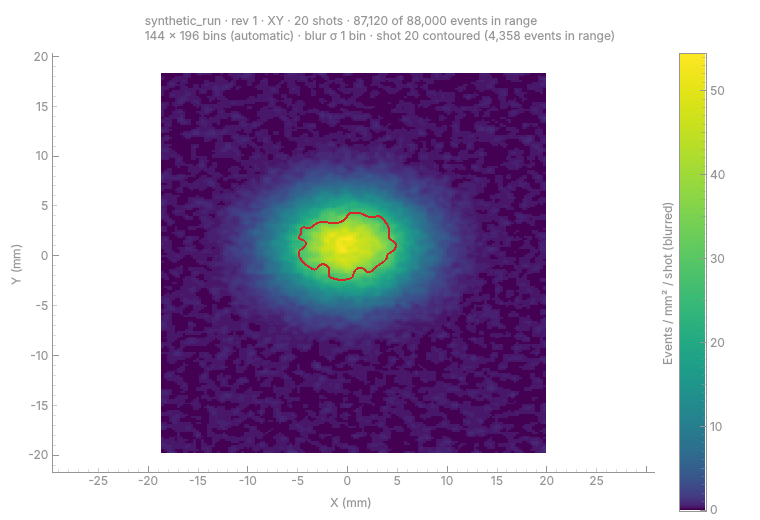
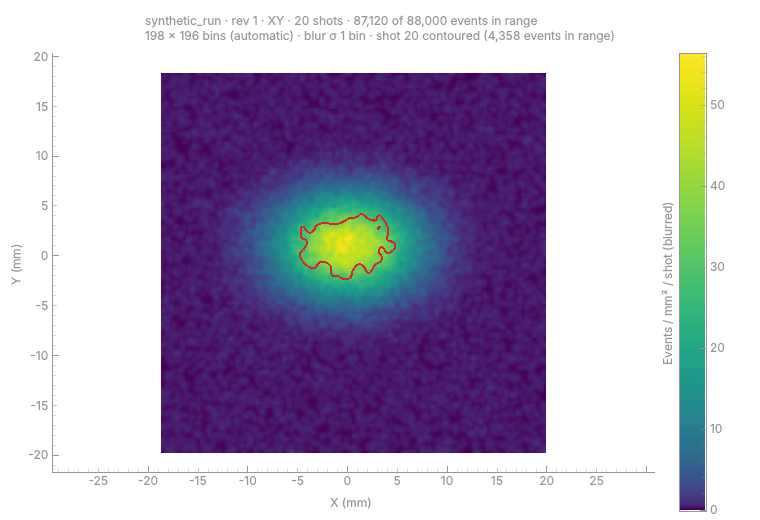
Fix density image colour compression and review items (D3)
Review of 9eeec6b:
- Colour compression was lost below 1/256 of the maximum: the image was
  attached to the ColorBarItem, which applies its map in 256 steps, so
  log (3+ decades) and small gamma drew those bins in the darkest
  colour. The image item now draws compress(image / max) over plain
  viridis with levels 0..1; the colour bar is only a legend (its
  gradient over a linear axis in real values). The result stays linear.
- A test reads the rendered QImage's pixels at 1e-3 and 1e-2 of the
  max under log 3/8 decades, power 0.05/0.5 and linear.
- XY with automatic bins uses one bin width for both axes (the smaller
  Freedman-Diaconis width), so pixels are square under the locked
  aspect; set bins are unchanged (proposed for Tony).
- Blur sigma is capped at a quarter of the image's longer side, with a
  title warning, keeping a Live rerun's blur bounded.
- update() compares T's unit only for projections showing T; a test
  covers switching counts to rate per shot in place.
Notes, handoff and renders updated.

Validation: tests/test_density_images.py 30 passed; with test_live_plots,
test_analysis, test_script_system and test_plot_ram_budget 176 passed
(-n 2 --reruns 5, no rerun); mypy --strict helab and tests, pyright
helab tests clean; tests/test_typing.py 6 passed with the venv on PATH.

Claude-Session: https://claude.ai/code/session_01PmiLMkYvw4nJJ9DqNnDdsZ

diff --git a/helab/scripts/standard/density_images.py b/helab/scripts/standard/density_images.py
@@ -52,7 +52,8 @@ BINS = ParameterSpec(
     tip=f"Bins along each axis of the image. 0 = automatic, per axis (Freedman–Diaconis: width "
         f"2·IQR·n^-1/3, at most {AUTO_BINS_CAP}).")
 BLUR = ParameterSpec("blur", "Blur σ", "float", 0.0, (0.0, 50.0), " bins", group=IMAGE_GROUP,
-                     tip="Gaussian blur of the image, its σ in bins; 0 = off. The total is kept (edges reflect).")
+                     tip="Gaussian blur of the image, its σ in bins; 0 = off. The total is kept (edges reflect). "
+                         "At most a quarter of the image's longer side is used (the plot says so).")
 COUNTS, PER_SHOT = "counts per bin", "rate per shot"
 QUANTITY = ParameterSpec("quantity", "Show", "choice", COUNTS, choices=(COUNTS, PER_SHOT), group=IMAGE_GROUP,
                          tip="Counts per bin, or a rate per shot: counts / number of shots chosen / bin area "
@@ -102,12 +103,26 @@ def compress(position: npt.NDArray[np.float64], scale: str, gamma: float = 0.5, 
 
 
 def colour_map(scale: str, gamma: float = 0.5, decades: int = 3) -> pg.ColorMap:
-    """Viridis, resampled so that a linear value shows the colour of its compressed position:
-    the image's data and the colour bar's axis stay linear (real values)."""
+    """Viridis, resampled so that a linear value shows the colour of its compressed position: the
+    colour bar's gradient over its linear axis in real values. (Only the bar's: pyqtgraph applies
+    a bar's map in 256 steps, which loses the compression below 1/256 of the maximum, so the image
+    is drawn from ``display_image`` instead.)"""
     base: Any = pg.colormap.get(COLOUR_MAP)
     positions = np.linspace(0.0, 1.0, LUT_SIZE)
     colours = base.map(compress(positions, scale, gamma, decades), mode="byte")
     return pg.ColorMap(positions, colours, name=f"{COLOUR_MAP} ({scale})")
+
+
+def display_image(image: npt.NDArray[np.float64], peak: float, scale: str, gamma: float = 0.5, decades: int = 3
+                  ) -> npt.NDArray[np.float64]:
+    """What the image item draws: each value's compressed position (0…1) in the colour map, over
+    plain viridis with levels 0…1. The result's image stays linear; this copy is only drawn."""
+    return compress(image / peak if peak > 0 else np.zeros_like(image), scale, gamma, decades)
+
+
+def viridis_lut() -> npt.NDArray[np.uint8]:
+    base: Any = pg.colormap.get(COLOUR_MAP)
+    return cast(npt.NDArray[np.uint8], base.getLookupTable(nPts=LUT_SIZE, alpha=False))
 
 
 @dataclass(frozen=True)
@@ -182,6 +197,26 @@ def span(box: CropBox, axis: int) -> tuple[float, float]:
     return lower, upper
 
 
+def automatic_bins(along_h: npt.NDArray[np.float64], along_v: npt.NDArray[np.float64], span_h: tuple[float, float],
+                   span_v: tuple[float, float], square: bool) -> tuple[int, int]:
+    """Bins per axis, each from Freedman–Diaconis, at most ``AUTO_BINS_CAP``. ``square`` (XY, both
+    in mm, aspect locked): one bin width for both axes, the smaller of the two, so pixels are
+    square (to within one bin's rounding), and widened when an axis would pass the cap."""
+    count_h = min(freedman_diaconis_bins(along_h, *span_h), AUTO_BINS_CAP)
+    count_v = min(freedman_diaconis_bins(along_v, *span_v), AUTO_BINS_CAP)
+    if not square:
+        return count_h, count_v
+    width_h, width_v = span_h[1] - span_h[0], span_v[1] - span_v[0]
+    width = max(min(width_h / count_h, width_v / count_v), width_h / AUTO_BINS_CAP, width_v / AUTO_BINS_CAP)
+    return (min(max(round(width_h / width), 1), AUTO_BINS_CAP), min(max(round(width_v / width), 1), AUTO_BINS_CAP))
+
+
+def blur_limit(shape: tuple[int, ...]) -> float:
+    """The largest blur σ used, in bins: a quarter of the image's longer side (at least 1). Beyond
+    it the image is nearly flat, and the cost (σ per pixel) keeps a Live rerun bounded."""
+    return max(1.0, max(shape) / 4)
+
+
 def blurred(counts: npt.NDArray[np.float64], sigma: float) -> npt.NDArray[np.float64]:
     """``counts`` with a Gaussian blur of ``sigma`` bins (0: as they are). Edges reflect, so the
     total is kept."""
@@ -236,6 +271,7 @@ class DensityPlot(QWidget):
         self.title: Any = self.graphics.addLabel("", row=0, col=0, colspan=2)
         self.plot: Any = self.graphics.addPlot(row=1, col=0)
         self.image: Any = pg.ImageItem(axisOrder="col-major")
+        self.image.setLookupTable(viridis_lut())
         self.plot.addItem(self.image)
         # The newest shot's contour, in the image's pixel coordinates (empty: none).
         self.contour: Any = pg.IsocurveItem(axisOrder="col-major")
@@ -254,24 +290,24 @@ class DensityPlot(QWidget):
         self.plot.setLabel("bottom", f"{AXES[h]} ({data.unit(h)})")
         self.plot.setLabel("left", f"{AXES[v]} ({data.unit(v)})")
         self.plot.setAspectLocked(data.projection == "XY")  # X and Y both in mm: their true shape
-        self.image.setImage(data.image, autoLevels=False)
-        self.image.setRect(data.rect())
         peak = float(data.image.max()) if data.image.size else 0.0
         levels = (0.0, peak if peak > 0 else 1.0)
         key = (str(values.get(SCALE.name, LINEAR)), float(values.get(GAMMA.name, GAMMA.default)),
                int(values.get(DECADES.name, DECADES.default)))
-        if self.bar is None or key != self.scale_key:
-            if self.bar is not None:
-                self.graphics.removeItem(self.bar)
+        # The colours come from the compressed copy (exact at any depth); the bar is a legend only:
+        # its gradient and its linear axis in real values, never attached to the image.
+        self.image.setImage(display_image(data.image, peak, *key), levels=(0.0, 1.0))
+        self.image.setRect(data.rect())
+        if self.bar is None:
             self.bar = pg.ColorBarItem(values=levels, colorMap=colour_map(*key), interactive=False,
                                        label=data.quantity_text())
-            self.bar.setImageItem(self.image)
             self.graphics.addItem(self.bar, row=1, col=1)
-            self.scale_key = key
         else:
+            if key != self.scale_key:
+                self.bar.setColorMap(colour_map(*key))
             self.bar.setLevels(levels)
             self.bar.getAxis("left").setLabel(data.quantity_text())  # ColorBarItem labels its left axis.
-        self.image.setLevels(levels)
+        self.scale_key = key
         if data.newest_shot is not None and data.newest.size and data.newest.max() > 0:
             self.contour.setPen(pg.mkPen(data.colour, width=2))
             self.contour.setData(data.newest, contour_level(data.newest))
@@ -338,18 +374,23 @@ class DensityImages(DatasetAnalysis):
         h, v = PROJECTIONS[projection]
         (low_h, high_h), (low_v, high_v) = span(box, h), span(box, v)
         bins = int(values.get(BINS.name, 0))
-        counts_h = bins or min(freedman_diaconis_bins(inside[:, h], low_h, high_h), AUTO_BINS_CAP)
-        counts_v = bins or min(freedman_diaconis_bins(inside[:, v], low_v, high_v), AUTO_BINS_CAP)
+        counts_h, counts_v = (bins, bins) if bins else automatic_bins(inside[:, h], inside[:, v], (low_h, high_h),
+                                                                      (low_v, high_v), projection == "XY")
         context.check()
         counts, edges_h, edges_v = np.histogram2d(inside[:, h], inside[:, v], bins=(counts_h, counts_v),
                                                   range=((low_h, high_h), (low_v, high_v)))
         context.check()
-        sigma = float(values.get(BLUR.name, 0.0))
+        asked = float(values.get(BLUR.name, 0.0))
+        sigma = min(asked, blur_limit(counts.shape))
+        warnings = range_warnings(values)
+        if sigma < asked:
+            warnings += (f"blur σ {asked:g} bins is over a quarter of the image's {max(counts.shape):,} bins: "
+                         f"using {sigma:g}",)
         image = blurred(counts, sigma)
         unit = time_unit(box.lower[0], box.upper[0])[0]
         per_shot = values.get(QUANTITY.name) == PER_SHOT
         data = DensityImage(projection, box, edges_h, edges_v, image, shots, len(view.shots), per_shot, sigma,
-                            bins == 0, unit, range_warnings(values))
+                            bins == 0, unit, warnings)
         if per_shot:
             # The bin area in display units (mm², or mm · ms or s), from the real bin count.
             area = float(edges_h[1] - edges_h[0]) * data.scale(h) * float(edges_v[1] - edges_v[0]) * data.scale(v)
@@ -377,10 +418,11 @@ class DensityImages(DatasetAnalysis):
 
     def update(self, widget: QWidget, result: AnalysisResult) -> bool:
         """A rerun (e.g. Live's next shots) draws in place, keeping the zoom and pan, while the
-        projection and T's unit stay; otherwise (or to or from an empty plot) it is drawn anew."""
+        projection and (when it shows T) T's unit stay; otherwise (or to or from an empty plot) it is drawn anew."""
         data: DensityImage = result.data
-        if (not isinstance(widget, DensityPlot) or empty_reason(data) or widget.projection != data.projection
-                or widget.time_unit != data.time_unit):
+        if not isinstance(widget, DensityPlot) or empty_reason(data) or widget.projection != data.projection:
+            return False
+        if 0 in data.axes and widget.time_unit != data.time_unit:  # Only a plot showing T relabels it.
             return False
         widget.show_data(result, data)
         return True

diff --git a/tests/test_density_images.py b/tests/test_density_images.py
@@ -8,12 +8,14 @@ from typing import Any, cast
 import numpy as np
 import pyqtgraph as pg
 import pytest
+from PyQt6.QtGui import QColor
 from PyQt6.QtWidgets import QLabel
 from pytestqt.qtbot import QtBot
 
 from helab.analysis.dataset_view import DatasetView, build_view
 from helab.analysis.parameters import effective
 from helab.analysis.results import AnalysisContext, AnalysisResult, Cancelled
+from helab.analysis.stats import freedman_diaconis_bins
 from helab.scripts.scripts_manager import ScriptsManager
 from helab.scripts.standard import density_images, group
 from helab.scripts.standard.density_images import DensityImage, DensityImages, DensityPlot
@@ -98,6 +100,31 @@ def test_blur_keeps_the_total(sigma: float) -> None:
     assert np.isclose(smooth.image.sum(), plain.image.sum()) and not np.array_equal(smooth.image, plain.image)
     assert smooth.image.max() < plain.image.max() and smooth.quantity_text() == "Events per bin (blurred)"
     assert density_images.blurred(plain.image, 0.0) is plain.image
+    assert smooth.blur == min(sigma, 25 / 4)
+    capped = sigma > 25 / 4
+    assert any("using 6.25" in warning for warning in smooth.warnings) == capped
+
+
+def test_square_automatic_bins_for_xy_only() -> None:
+    """XY's automatic bins share one width (the smaller), so pixels are square; XT and YT and set
+    bins don't."""
+    rng = np.random.default_rng(4)
+    # X spread four times wider than Y: Freedman–Diaconis gives X wider bins.
+    view = view_of({1: np.column_stack([rng.normal(0.42, 0.002, 20_000), rng.normal(0.0, 0.008, 20_000),
+                                        rng.normal(0.0, 0.002, 20_000)])})
+    xy = run(view, {"keep_percent": 100}).data
+    width_x = (xy.edges_h[-1] - xy.edges_h[0]) / xy.image.shape[0]
+    width_y = (xy.edges_v[-1] - xy.edges_v[0]) / xy.image.shape[1]
+    assert math.isclose(width_x, width_y, rel_tol=2 / min(xy.image.shape))
+    events = view.events((1,))
+    fd_x = freedman_diaconis_bins(events[:, 1], xy.edges_h[0], xy.edges_h[-1])
+    assert xy.image.shape[0] > fd_x  # X took Y's narrower width.
+    xt = run(view, {"keep_percent": 100, "projection": "XT"}).data
+    assert xt.image.shape[1] == freedman_diaconis_bins(events[:, 1], xt.edges_v[0], xt.edges_v[-1])
+    assert run(view, {"bins": 30}).data.image.shape == (30, 30)
+    # Capped: the width widens rather than an axis passing the cap.
+    capped = density_images.automatic_bins(events[:, 1], events[:, 2], (-1.0, 1.0), (-1e-3, 1e-3), True)
+    assert capped[0] == density_images.AUTO_BINS_CAP
 
 
 def test_colour_compression_changes_the_colours_only() -> None:
@@ -200,9 +227,80 @@ def test_rendering_draws_an_image_of_the_right_shape(qtbot: QtBot, projection: s
     axis_names = {"XY": ("X (mm)", "Y (mm)"), "XT": ("T (ms)", "X (mm)"), "YT": ("T (ms)", "Y (mm)")}[projection]
     assert (widget.plot.getAxis("bottom").labelText, widget.plot.getAxis("left").labelText) == axis_names
     assert widget.bar is not None and widget.bar.levels() == (0.0, float(result.data.image.max()))
+    # The image draws its compressed copy over plain viridis (levels 0…1); the result stays linear.
+    assert image.levels.tolist() == [0.0, 1.0] and image.image.max() == 1.0
+    assert np.allclose(image.image, np.sqrt(result.data.image / result.data.image.max()))
     assert widget.bar.getAxis("left").labelText == "Events per bin"
     assert widget.contour.data is None  # No highlight by default.
     assert widget.plot.getViewBox().state["aspectLocked"] == (1 if projection == "XY" else False)
+
+
+def pixel(widget: DensityPlot, i: int, j: int) -> tuple[int, int, int]:
+    """The colour the image item draws for bin (i, j) (its rendered QImage)."""
+    widget.image.render()
+    qimage = widget.image.qimage
+    assert qimage is not None and (qimage.width(), qimage.height()) == widget.image.image.shape
+    red, green, blue, _ = QColor(qimage.pixel(i, j)).getRgb()
+    return int(red or 0), int(green or 0), int(blue or 0)
+
+
+@pytest.mark.parametrize("values, positions", [
+    ({"colour_scale": "log", "log_decades": 3}, (0.0, 1 / 3)),
+    ({"colour_scale": "log", "log_decades": 8}, (5 / 8, 6 / 8)),
+    ({"colour_scale": "power γ", "gamma": 0.05}, (1e-3 ** 0.05, 1e-2 ** 0.05)),
+    ({"colour_scale": "power γ", "gamma": 0.5}, (1e-3 ** 0.5, 1e-2 ** 0.5)),
+    ({"colour_scale": "linear"}, (1e-3, 1e-2))])
+def test_rendered_colours_keep_the_compression_far_below_the_maximum(
+        qtbot: QtBot, values: dict[str, Any], positions: tuple[float, float]) -> None:
+    """Bins at 1e-3 and 1e-2 of the maximum are drawn in viridis at their compressed positions,
+    not the darkest colour (pyqtgraph's own colour bar mapping has only 256 steps)."""
+    def at(x: float, y: float, count: int) -> Any:
+        return np.tile([0.42, x * 1e-3, y * 1e-3], (count, 1))
+    # 2 × 2 bins over X and Y 0…1 mm: 1000, 10, 1 and 0 events.
+    view = view_of({1: np.vstack([at(0.25, 0.25, 1000), at(0.75, 0.25, 10), at(0.25, 0.75, 1)])})
+    result = run(view, {**values, "bins": 2, "range_mode": "manual", "x_min": 0.0, "x_max": 1e-3,
+                        "y_min": 0.0, "y_max": 1e-3})
+    assert result.data.image.tolist() == [[1000.0, 1.0], [10.0, 0.0]]
+    widget = SCRIPT.render(result)
+    qtbot.addWidget(widget)
+    assert isinstance(widget, DensityPlot)
+    viridis: Any = pg.colormap.get("viridis")
+
+    def intended(position: float) -> tuple[int, int, int]:
+        red, green, blue = viridis.map(np.array([position]), mode="byte")[0][:3]
+        return int(red), int(green), int(blue)
+    for (i, j), position in (((0, 1), positions[0]), ((1, 0), positions[1]), ((0, 0), 1.0), ((1, 1), 0.0)):
+        drawn, wanted = pixel(widget, i, j), intended(position)
+        assert max(abs(a - b) for a, b in zip(drawn, wanted)) <= 2, (i, j, drawn, wanted)
+    if positions[0] > 0.05:
+        assert pixel(widget, 0, 1) != intended(0.0)  # Not the darkest colour.
+
+
+def test_counts_to_rate_per_shot_in_place_relabels_the_bar(qtbot: QtBot) -> None:
+    view = cloud(shots=2)
+    counts = run(view, {**MANUAL, "bins": 10})
+    widget = SCRIPT.render(counts)
+    qtbot.addWidget(widget)
+    assert isinstance(widget, DensityPlot)
+    bar = widget.bar
+    assert bar.getAxis("left").labelText == "Events per bin"
+    rate = run(view, {**MANUAL, "bins": 10, "quantity": density_images.PER_SHOT})
+    assert SCRIPT.update(widget, rate) and widget.bar is bar
+    assert bar.getAxis("left").labelText == "Events / mm² / shot"
+    assert bar.levels() == (0.0, float(rate.data.image.max())) and rate.data.image.max() < counts.data.image.max()
+
+
+def test_a_t_unit_change_redraws_only_plots_showing_t(qtbot: QtBot) -> None:
+    near = cloud(shots=2)  # T about 0.42 s: ms
+    rng = np.random.default_rng(5)
+    late = view_of({1: np.column_stack([rng.normal(12.0, 0.002, 500), rng.normal(0.0, 0.004, 500),
+                                        rng.normal(0.0, 0.003, 500)])})  # T about 12 s: s
+    for projection, redrawn in (("XY", False), ("XT", True)):
+        widget = SCRIPT.render(run(near, {"projection": projection}))
+        qtbot.addWidget(widget)
+        later = run(late, {"projection": projection})
+        assert later.data.time_unit == "s"
+        assert SCRIPT.update(widget, later) is not redrawn
 
 
 def test_the_newest_shot_is_contoured(qtbot: QtBot) -> None:
@@ -232,9 +330,10 @@ def test_a_rerun_draws_in_place_keeping_the_view(qtbot: QtBot) -> None:
     assert widget.contour.data is not None
     assert np.allclose(widget.plot.getViewBox().viewRange(), [[-1, 1], [-1, 1]])  # The zoom stays.
     assert "3 shots" in widget.title.text
-    # A new colour scale replaces the bar; the highlight off clears the contour.
+    # A new colour scale changes the bar's gradient; the highlight off clears the contour.
     third = run(cloud(seed=2, shots=3), {"bins": 25, "colour_scale": "sqrt"})
-    assert SCRIPT.update(widget, third) and widget.bar is not bar and widget.contour.data is None
+    assert SCRIPT.update(widget, third) and widget.bar is bar and widget.contour.data is None
+    assert widget.scale_key[0] == "sqrt" and bar.colorMap().name == "viridis (sqrt)"
     # Another projection, or nothing to draw: drawn anew.
     assert not SCRIPT.update(widget, run(cloud(), {"projection": "XT"}))
     assert not SCRIPT.update(widget, run(view_of({}), {}))

diff --git a/.ai/sessions/2026-10-20-claude-dld-d3/notes.md b/.ai/sessions/2026-10-20-claude-dld-d3/notes.md
@@ -27,17 +27,30 @@ Code: `helab/scripts/standard/density_images.py` (`DensityImages`, "Density imag
    (Freedman–Diaconis over the box, at most 400). Set: up to 1000 (8 MB per image). The old
    GUI's default of 201 and its forced-odd count are not kept. The bin area uses the real bin
    count (the old GUI divided by `bins` where there are `bins − 1`).
+   **XY with automatic bins (after review):** one bin width for both axes, the smaller of the
+   two Freedman–Diaconis widths (widened if an axis would pass 400), so pixels are square under
+   the locked aspect, to within one bin's rounding (`automatic_bins`). XT/YT keep a width per
+   axis; set bins stay as set. *Proposed.*
 5. **Blur:** `scipy.ndimage.gaussian_filter`, σ in bins (0 = off), `mode="reflect"`, which
    keeps the image's total (tested); `constant` would lose events at the edges.
+   **Capped (after review):** σ is at most a quarter of the image's longer side (at least 1 bin;
+   `blur_limit`), and the figure's title warns when it was lowered ("blur σ 30 bins is over a
+   quarter of the image's 25 bins: using 6.25"). Beyond that the image is nearly flat, and the
+   cap with the 1000-bin and 50-bin limits bounds a Live rerun's blur cost. *Proposed.*
 6. **Show: counts per bin, or rate per shot** = counts / shots chosen / bin area in display
    units: events / mm² / shot (XY) and events / (mm·ms) / shot (XT, YT; per s when T is in s).
    The rate is computed after the blur (the blur keeps the total, so the order doesn't matter).
    The colour bar is labelled accordingly, with "(blurred)" when blurred.
 7. **Colour compression in the colour map only:** linear (default), sqrt (the old GUI's
    "LogScale", `counts.^0.5`), log (spanning N decades below the maximum, default 3), power γ
-   (default 0.5). Viridis is resampled (1024 samples) so a linear value shows the colour of its
-   compressed position; the image and the colour bar's axis stay linear, so the bar reads real
-   values. Levels are 0…max of the image (not interactive: a rerun would reset them).
+   (default 0.5). The result's image stays linear. **Fixed after review:** the first version
+   attached the image to a `ColorBarItem` with a resampled viridis map, but pyqtgraph applies a
+   bar's map in 256 steps (`getLookupTable(nPts=256)`), so every value below 1/256 of the
+   maximum was drawn in the darkest colour (log 3+ decades, small γ). Now the image item draws a
+   display copy, `compress(image / max)`, over plain viridis (a 1024-entry LUT) with levels 0…1,
+   which is exact at any depth (tested on the rendered QImage's pixels at 1e-3 and 1e-2 of the
+   max); the bar is only a legend, not attached to the image: the resampled gradient over a
+   linear axis in real values, 0…max (not interactive: a rerun would reset it).
    *Proposed:* an interactive colour bar (drag the levels) is a later option.
 8. **Units:** X and Y in mm; T in ms while both ends of its range are under 10 s, else s
    (`density_images.time_unit`), per the roadmap. **Inconsistency to note:** the existing plots
@@ -50,8 +63,9 @@ Code: `helab/scripts/standard/density_images.py` (`DensityImages`, "Density imag
    "highlighted as a contour"). *Proposed:* contour level and blur fixed for now.
 10. **Live:** `LivePolicy(min_delay=2.0)`: the auto-crop of ~1.1 M events took about 1.5 s here
     (4 shared cores), as the scatter's does. Reruns draw in place (`update`): the same
-    `DensityPlot`, image and colour bar, keeping zoom and pan, unless the projection or T's
-    unit changes or the plot was or becomes empty; a new colour scale replaces only the bar.
+    `DensityPlot`, image and colour bar, keeping zoom and pan, unless the projection changes,
+    T's unit changes on a plot showing T (XT, YT; never XY), or the plot was or becomes empty; a
+    new colour scale changes the bar's gradient, and counts ↔ rate per shot its label.
 11. **Empty:** no shots, none chosen, no events (the shared `empty_text`), and a manual range
     with no events inside ("None of the N events in the chosen shots is inside the view range
     (View range settings)", plus any range warning). The old GUI crashed on an empty window.

diff --git a/.ai/sessions/2026-10-20-claude-dld-d3/handoff.md b/.ai/sessions/2026-10-20-claude-dld-d3/handoff.md
@@ -20,9 +20,36 @@ Branch `agent/dld-d3` from `1231025` (`agent/dld-front-panel-port`), not pushed 
   newest shot contoured): `render-XY.png`, `render-XT.png`, `render-YT.png`, made by
   `render_density.py` (run with `PYTHONPATH=<checkout> QT_QPA_PLATFORM=offscreen`).
 
+## Review fixes (second commit)
+
+The Coordinator's review of `9eeec6b`, all fixed:
+
+1. **Colour compression below 1/256 of the max (should-fix).** The image was attached to the
+   colour bar, whose 256-step lookup table drew everything under max/256 in the darkest colour.
+   The image item now draws `compress(image / max)` over plain viridis with levels 0…1; the bar
+   is a legend only (gradient and linear axis in real values). The result's data stays linear.
+2. **Rendered-pixel test:** `test_rendered_colours_keep_the_compression_far_below_the_maximum`
+   reads the ImageItem's QImage at 1e-3 and 1e-2 of the max (and the max and 0) under log 3 and
+   8 decades, power γ 0.05 and 0.5, and linear, against viridis at the intended positions
+   (within 2 per channel).
+3. **XY automatic bins are square:** one width for both axes, the smaller FD width (widened at
+   the 400 cap). Set bins unchanged. Proposed for Tony (notes.md § 4).
+4. **Blur capped** at a quarter of the image's longer side, with a title warning when lowered
+   (notes.md § 5).
+5. **Counts → rate per shot in place:** tested (same bar, relabelled, new levels).
+6. **`update()`** compares T's unit only when the projection shows T: XY doesn't redraw.
+
+The XY render was redone (square bins: 198 × 196).
+
 ## Checks
 
-- `tests/test_density_images.py`: 22 tests (counts vs `np.histogram2d` for each projection,
+- After the review fixes: `tests/test_density_images.py` 30 passed;
+  `test_density_images`, `test_live_plots`, `test_analysis`, `test_script_system` and
+  `test_plot_ram_budget` together (`-n 2 --reruns 5`): 176 passed, no rerun;
+  `mypy helab/ --strict`, `mypy tests --strict`, `pyright helab tests`: clean;
+  `tests/test_typing.py` with the venv's bin first on PATH: 6 passed. No shared code changed,
+  so the full suite was not rerun; the figures below are from the first commit.
+- `tests/test_density_images.py` (first commit): 22 tests (counts vs `np.histogram2d` for each projection,
   rate per shot, time unit, blur keeps the total for σ 0.5/2/30, colour compression leaves the
   data alone and resamples viridis, auto-crop and bins, Shots and coverage, empty notes,
   reversed range, one-value events, offscreen render shape/rect/labels/levels/aspect, newest
@@ -48,7 +75,8 @@ link in the checkout for pyright; with them its 6 tests pass.)
    its pulses as columns.
 3. Blur σ 1–2 bins: smoother, same total. Show › rate per shot: the bar reads
    events / mm² / shot (XY) or events / (mm·ms) / shot.
-4. Colour scale sqrt / log / power γ: faint regions brighten, the bar's numbers stay real
+4. Colour scale sqrt / log (try 6–8 decades) / power γ: faint regions brighten, down to the
+   faintest bins, and the bar's numbers stay real
    counts (its colours change, not its scale).
 5. View range › manual with only T set (e.g. one pulse) on XY: the image shows only those
    events. A T min above max: full extent, "⚠ T: min > max, using full extent" in the title.
